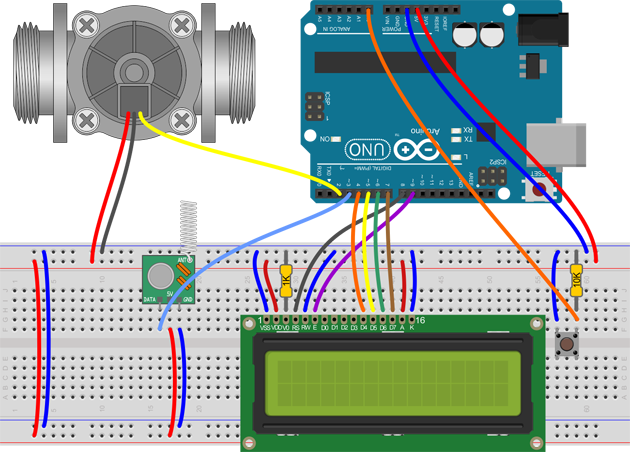
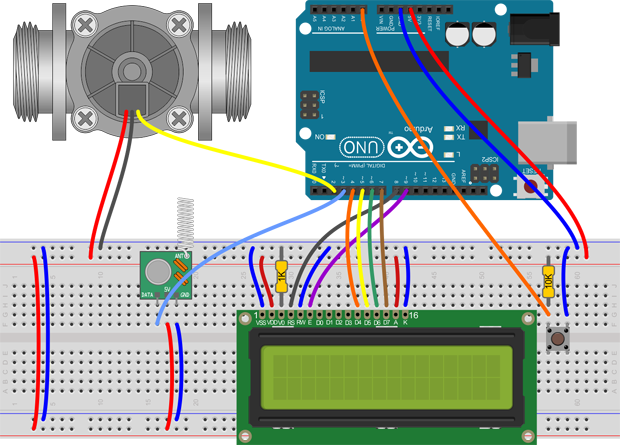
more content updates

diff --git a/index.html b/index.html
@@ -134,7 +134,7 @@ We  use one quarter of the wavelength which works out to  17.3 cm. </p>
         <p><img src="images/ninja_block.png" width="284" height="378"></p>
          <h3>Putting It All Together</h3>
          <p>The bulk of the wiring for this project is between the LCD display and the Arduino. If you're using an LCD shield, you won't need to worry about the LCD display and the additional push button, the display shield should just drop into place. Do be sure to double check that your LCD shield matches the pinouts that we're using here or you'll have to make changes in the code later to suit.</p>
-         <p><img src="images/flow_sender_layout.png" width="630" height="452"></p>
+         <p><img src="images/flow_sender_layout.png" width="620" height="445"></p>
          <p>Wiring details are as follows:</p>
          <h4>Flow Sensor:</h4>
          <p>Red to +5V<br>
@@ -159,21 +159,81 @@ We  use one quarter of the wavelength which works out to  17.3 cm. </p>
 </p>
 <h4>Reset Button</h4>
 <p>Pin 1 to ground<br>
-  Pin 2 to Arduino analog pin 0 using 10K pull down resistor
+  Pin 2 to Arduino analog pin 0 using 10K pull up resistor
 </p>
          <h2>The Sender Sketch</h2>
-         <pre>#include &lt;B00Sender.h&gt;
+
+        <p>Now that you have all the hardware hooked up, it's time to move on to the software that allows the sender Arduino to transmit the sensor data to the Ninja Block.</p>
+        <p>You'll find the latest version of the flow sender sketch in my GitHub repository here::</p>
+        <p><a href="https://github.com/GraemeWieden/flow_sender">https://github.com/GraemeWieden/flow_sender</a></p>
+        <p>Download the source, create a <code>flow_sender</code> folder in your sketchbook folder and place the <code>flow_sender.ino</code> file into it.</p>
+        <p> If you're not sure where your sketchbook directory is located, you can find it by selecting 'Preferences' from the 'File' menu in the Arduino IDE.</p>
+        <h3>Including the Libraries</h3>
+        <p>The flow sender makes use of the B00 protocol library to allow it to send the sensor data to the Ninja Block. You'll need to download the B00 protocol library from my GitHub repository here:</p>
+        <p><a href="https://github.com/GraemeWieden/B00_Protocol">https://github.com/GraemeWieden/B00_Protocol</a></p>
+<p>Place (or symbolic link) the <code>B00Sender</code> directory into your Arduino <code>libraries</code> directory located within your Arduino sketchbook directory.        </p>
+<p>You'll see the B00Sender library is included at the top of the <code>flow_sender.ino</code> file along with the standard EEPROM library (for retaining the total consumption when the Arduino is powered down) and the LiquidCrystal library (for showing info on the LCD display):</p>
+<pre><code>#include &lt;B00Sender.h&gt;
 #include &lt;EEPROM.h&gt;
-#include &lt;LiquidCrystal.h&gt;</pre>
-         <p>The EEPROM memory has a specified life of 100,000 write/erase cycles, so you may need to be careful about how often you write to it.</p>
-         <p>Reading from the sensor</p>
-         <p>The Ninja Block Arduino Firmware<br>
-        </p>
-         <p>Installation</p>
-         <p>Place (or symbolic link) the B00Sender directory into your Arduino libraries directory located within your Arduino sketchbook directory. </p>
-         <p><br>
-         </p>
-<p></p>
+#include &lt;LiquidCrystal.h&gt;</code></pre>
+<h3>Reading from the Sensor</h3>
+<p>The hall effect sensor sends pulses to the Arduino's digital pin 2 as liquid flows through it. The faster the flow, the more frequent the pulse. The flow sender sketch calculates the flow rate by monitoring the timing of the pulses. To do this, we attach an interrupt to the sensor pin and update a counter with each pulse:</p>
+<pre><code>pinMode(sensorPin, INPUT);
+digitalWrite(sensorPin, HIGH);
+attachInterrupt(sensorInterrupt, pulseCounter, FALLING);</code></pre>
+<p>The Interrupt Service Routine (ISR) is called <code>pulseCounter</code> and is a function defined like this:</p>
+<pre><code>void pulseCounter()
+{
+  sensorCount++;
+}</code></pre>
+<p>Note that the ISR should do as little as possible before returning as it will block other routines while it's running.</p>
+<p>Each time the main loop is executed, we can calculate the flow rate (and hence the total consumption) by using the <code>sensorCount</code> value and the predefined <code>calibrationFactor</code> for the particular sensor.</p>
+<pre><code>flowRate = ((1000.0 / (millis() - lastPollTime)) * sensorCount) / calibrationFactor;</code></pre>
+<h3>Transmitting the Data</h3>
+<p>After the flow rate and total consumption has been calculated, we periodically transmit it, but only if the data has changed since the last transmission. There's no point in cluttering up the RF spectrum any more than we need to! This is where the B00 protocol comes in. There are a number of ways the data could be sent to the Ninja Block, but for this project, we're going to send two separate values; a floating point number for the current flow rate in litres per minute and an unsigned long integer for the total litres consumed. These values will be sent as a B00 and a B02 message respectively like this:</p>
+<pre><code>sender.sendB00(flowRate); // floating point flow rate in L/min
+sender.sendB02(totalLitres); // unsigned long total value in litres</code></pre>
+         <h3>Storing the Total Consumption Value</h3>
+         <p>Power to the sensor could be interrupted at any time, so it's important for us to store the total consumption value in the Arduino's small amount of permanent EEPROM memory. Unfortunately, the EEPROM memory has a specified life of only 100,000 write/erase cycles, so we will need to be very careful about how often we write to it.</p>
+         <p>Every two minutes, we'll check if the total consumption has changed and if so, write it to the EEPROM memory using the <code>storeFloat</code> function.</p>
+        <p>Any time the Arduino is powered up, it'll re-load the <code>totalLitres</code> variable using the <code>readFloat</code> function.</p>
+        <h3>Resetting the Total Consumption</h3>
+        <p>Of course, we'll also need a wat to reset the total consumption value back to zero. To provide this functionality, but prevent it from happening too easily, we'll wait for the reset button to be held for 5 seconds.</p>
+        <p>While the button is being held a message will be shown on the LCD display and another message confirming the reset after the 5 second period.</p>
+         <h3>Setting the House and Channel Codes</h3>
+         <p>If you plan on having multiple sensors all communicating with your Ninja Block, you can assign each of them a different house code and channel code to uniquely identify where the data is coming from in the Ninja Blocks dashboard. The house code can range from 0 to 3 and the channel from 0 to 7. The settings can be changed here:</p>
+<pre><code>// set the house and channel codes here
+int houseCode = 0; // 0 to 3
+int channelCode = 0; // 0 to 7</code></pre>
+         <h3>Setting the Calibration Factor</h3>
+         <p>Each flow sensor has its own characteristics. The one I'm using in this project was rated at 4 pulses per second at one litre per minute of flow, and after a few tests it worked out pretty close at 3.97. You should run your own tests at a hig and low flow rate, average them out and adjust the value here:</p>
+<pre><code>float calibrationFactor = 4.0;</code></pre>         
+         <h3>Flashing the Arduino</h3>
+        <p>The last step in completing the sensor part of this project is compiling and uploading the sketch to the Arduino. Double check all your connections, make sure the Arduino board and port ar set correctly and hit the 'Upload' button in the Arduino IDE.</p>
+         <h3>Testing the Sensor</h3>
+         <p>After the sensor Arduino is flashed, you can check the sensor and connections are all working by gently blowing through the flow sensor. You'll hear the little wheel whizz around and if everything is set up correctly, the 'Flow' and 'Total' values shown on the LCD display should be updated every few seconds. </p>
+         <h2>The Ninja Block Arduino Firmware<br>
+        </h2>
+         <p>Once you're happy that you have the sensor/sender part of the project all working correctly, it's time to make the necessary modifications to the Ninja Block's internal Arduino so that it'll be capable of receiving the B00 protocol data and forwaring it to the Ninja Cloud dashboard.</p>
+         <h3>Getting the Ninja Block Arduino Master B00 Branch         </h3>
+         <p>There are currently two 'standard' firmwares available for the Ninja Arduino; the 'master' branch and the 'rewrite' branch. The master branch is the firmware installed on the Ninja Arduino by default. For this project, we'll be using a slightly modified version of the rewrite branch that supports the B00 protocol. You'll need to download this branch from my GitHub repository here:</p>
+         <p><a href="https://github.com/GraemeWieden/nb_arduino_master/tree/B00">https://github.com/GraemeWieden/nb_arduino_master/tree/B00</a>         </p>
+         <h3>Making room for it</h3>
+         <p>Unfortunately, for the BeagleBone  based Ninja Blocks, the standard master branch Arduino firmware is so large that it doesn't allow for any more features to be added without sacrificing some of the existing functionality. Because of this, I've chosen to cull out the hardware port code as I don't have anything physically connected to my BeagleBone  based Ninja Block. This is done by just returning at the start of the <code>doPort1</code>, <code>doPort2</code> and <code>doPort3</code> functions in <code>NinjaObjects.cpp</code> in the <code>NinjaObjects</code> directory. If you'd prefer to keep this functionality, you could instead bypass one of the other RF protocols that you're not using such as <code>doLacrosseTX3</code> or <code>doLacrosseWS2355</code>.</p>
+<h3>The B00 protocol handler</h3>
+<p>The new B00 protocol is added as 'protocol 6' and it is decoded the the <code>doB00</code> function of <code>NinjaObjects/NinjaObjects.cpp</code> in the case of the BeagleBone based Ninja Blocks or in <code>NinjaObjectsPi/NinjaPi.cpp</code> in the case of the Raspberry Pi based Ninja Blocks.</p>
+         <h3>Flashing the Ninja Block Arduino</h3>
+         <p>It may seem a bit daunting at first to update the firmware on your Arduino however the Ninja Block guys have put together a comprehensive set of instructions on how to do it at this page:</p>
+         <p><a href="http://shop.ninjablocks.com/blogs/how-to/8465455-compiling-the-ninja-blocks-arduino-firmware">http://shop.ninjablocks.com/blogs/how-to/8465455-compiling-the-ninja-blocks-arduino-firmware</a></p>
+         <p>These instruction refer to the standard firmware, so be sure to use the B00 firmware that you downloaded instead. Also note that the instructions shown may vary slightly depending on your operating system. Essentially the update process is as follows:</p>
+         <ul>
+           <li>Build the firmware image using the Arduino IDE into an <code>arduino.hex</code> file on your computer</li>
+           <li>Copy the file from your computer to your Ninja Block</li>
+           <li>Run the <code>ninja_update_arduino</code> tool to flash the Ninja Arduino<br>
+           </li>
+        </ul>
+        <p>If everything has gone according to plan, you should see two new devices appear in your Ninja Cloud dashboard after the Ninja Block has been restarted and has successfully reconnected to the Ninja server.</p>
+         <h2>Showing the Data on the Dashboard</h2>
          <p>&nbsp;</p>
         <div id="disqus_thread"></div>
 <script type="text/javascript">
@@ -197,7 +257,7 @@ We  use one quarter of the wavelength which works out to  17.3 cm. </p>
     <!-- FOOTER  -->
     <div id="footer_wrap" class="outer">
       <footer class="inner">
-        <p class="copyright">Flow sender maintained by <a href="https://github.com/GraemeWieden">GraemeWieden</a></p>
+        <p class="copyright">Maintained by <a href="https://github.com/GraemeWieden">Graeme Wieden</a></p>
         <p>Published with <a href="http://pages.github.com">GitHub Pages</a></p>
       </footer>
   </div>

diff --git a/stylesheets/stylesheet.css b/stylesheets/stylesheet.css
@@ -153,29 +153,27 @@ p img {
 }
 
 pre, code {
-  width: 100%;
-  color: #222;
-  background-color: #fff;
-
-  font-family: Monaco, "Bitstream Vera Sans Mono", "Lucida Console", Terminal, monospace;
-  font-size: 14px;
-
-  border-radius: 2px;
-  -moz-border-radius: 2px;
-  -webkit-border-radius: 2px;
+	width: 100%;
+	color: #222;
+	background-color: #F8F8F8;
+	font-family: Monaco, "Bitstream Vera Sans Mono", "Lucida Console", Terminal, monospace;
+	font-size: 14px;
+	border-radius: 2px;
+	-moz-border-radius: 2px;
+	-webkit-border-radius: 2px;
 }
 
 pre {
-  width: 100%;
-  padding: 10px;
-  box-shadow: 0 0 10px rgba(0,0,0,.1);
-  overflow: auto;
+	width: 100%;
+	padding: 10px;
+	box-shadow: 0 0 10px rgba(0,0,0,.2);
+	overflow: auto;
 }
 
 code {
-  padding: 3px;
-  margin: 0 3px;
-  box-shadow: 0 0 10px rgba(0,0,0,.1);
+	padding: 3px;
+	margin: 0 3px;
+	box-shadow: 0 0 8px rgba(0,0,0,.1);
 }
 
 pre code {
